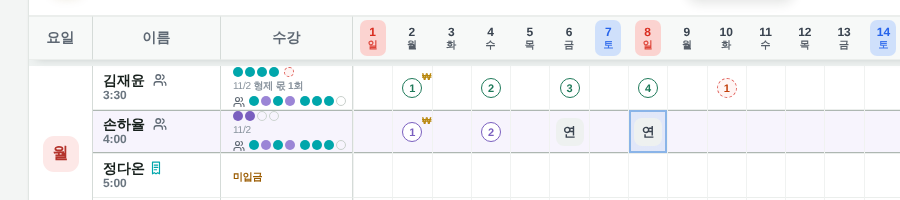
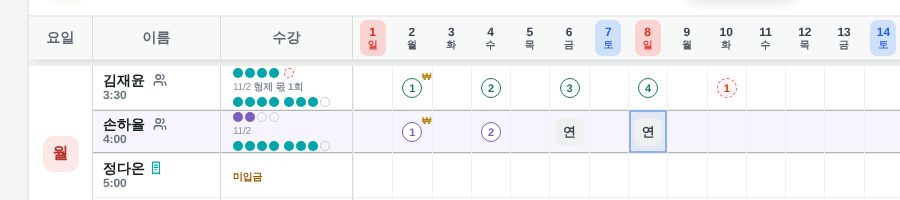
v0.108.2 형제 합계 동그라미: 아이콘 빼고 출석 청록·결석 빨강
Claude-Session: https://claude.ai/code/session_014d9zEvtY8svh7Lt1eQQH6C

Changed region(s): [[0.2489, 0.48, 0.3733, 0.75], [0.2489, 0.33, 0.3422, 0.45]]

diff --git a/design/attendance.html b/design/attendance.html
@@ -95,7 +95,7 @@ html.bwp section[aria-label="출석부"] [style*="dashed"]{border-color:#000!imp
                   <span style="display: flex; flex-direction: column; gap: 3px; align-items: flex-start">
                     <span style="display: flex; align-items: flex-end; gap: 5px"><span style="display: flex; flex-direction: column; gap: 3px"><sc-for list="{{r.dotLines}}" as="dl" hint-placeholder-count="1"><span style="display: flex; align-items: center; gap: 5px"><sc-for list="{{dl.groups}}" as="dg" hint-placeholder-count="2"><span style="display: flex; gap: 2px"><sc-for list="{{dg.dots}}" as="dd" hint-placeholder-count="4"><span data-bw="{{dd.bw}}" style="{{dd.style}}"></span></sc-for></span></sc-for></span></sc-for></span><sc-if value="{{r.queueTxt}}" hint-placeholder-val="{{ false }}"><span style="display: inline-flex; align-items: center; height: 15px; padding: 0 5px; border-radius: 5px; background: #F3E6C4; color: #7A5C12; font-size: 9px; font-weight: 600; white-space: nowrap">{{r.queueTxt}}</span></sc-if></span>
                     <span style="font-size: 10px; letter-spacing: -0.02em; white-space: normal; line-height: 1.25"><sc-for list="{{r.subParts}}" as="sp" hint-placeholder-count="1"><span style="{{sp.style}}">{{sp.t}}</span></sc-for></span><sc-if value="{{r.lateLine}}" hint-placeholder-val="{{ false }}"><span style="font-size: 10px; font-weight: 600; letter-spacing: -0.02em; color: #007E82; white-space: nowrap">{{r.lateLine}}</span></sc-if><sc-if value="{{r.diffLine}}" hint-placeholder-val="{{ false }}"><span style="{{r.diffStyle}}">{{r.diffLine}}</span></sc-if>
-                    <sc-if value="{{r.pool}}" hint-placeholder-val="{{ false }}"><span title="{{r.pool.title}}" aria-label="{{r.pool.title}}" style="display: flex; align-items: flex-start; gap: 4px; margin-top: 1px"><svg width="12" height="12" viewBox="0 0 24 24" fill="none" stroke="#5E6873" stroke-width="2.2" stroke-linecap="round" stroke-linejoin="round" aria-hidden="true" style="flex: none"><path d="M16 21v-2a4 4 0 0 0-4-4H6a4 4 0 0 0-4 4v2M22 21v-2a4 4 0 0 0-3-3.87M16 3.13a4 4 0 0 1 0 7.75M13 7a4 4 0 1 1-8 0a4 4 0 1 1 8 0"></path></svg><span style="display: flex; flex-direction: column; gap: 3px"><sc-for list="{{r.pool.lines}}" as="pl" hint-placeholder-count="1"><span style="display: flex; align-items: center; gap: 5px"><sc-for list="{{pl.groups}}" as="pg" hint-placeholder-count="2"><span style="display: flex; gap: 2px"><sc-for list="{{pg.dots}}" as="pd" hint-placeholder-count="4"><span data-bw="{{pd.bw}}" style="{{pd.style}}"></span></sc-for></span></sc-for></span></sc-for></span></span></sc-if>
+                    <sc-if value="{{r.pool}}" hint-placeholder-val="{{ false }}"><span title="{{r.pool.title}}" aria-label="{{r.pool.title}}" style="display: flex; margin-top: 1px"><span style="display: flex; flex-direction: column; gap: 3px"><sc-for list="{{r.pool.lines}}" as="pl" hint-placeholder-count="1"><span style="display: flex; align-items: center; gap: 5px"><sc-for list="{{pl.groups}}" as="pg" hint-placeholder-count="2"><span style="display: flex; gap: 2px"><sc-for list="{{pg.dots}}" as="pd" hint-placeholder-count="4"><span data-bw="{{pd.bw}}" style="{{pd.style}}"></span></sc-for></span></sc-for></span></sc-for></span></span></sc-if>
                   </span>
                 </span>
                 <sc-for list="{{r.cells}}" as="x" hint-placeholder-count="30">
@@ -246,7 +246,7 @@ html.bwp section[aria-label="출석부"] [style*="dashed"]{border-color:#000!imp
     <sc-for list="{{sheetTabs}}" as="t" hint-placeholder-count="5">
       <button type="button" class="{{t.cls}}" draggable="true" onDragStart="{{t.dragStart}}" onDragOver="{{t.dragOver}}" onDragLeave="{{t.dragLeave}}" onDrop="{{t.drop}}" onDragEnd="{{t.dragEnd}}" onClick="{{t.pick}}" onContextMenu="{{t.ctx}}" aria-pressed="{{t.on}}" style="{{t.style}}"><span style="{{t.dot}}"></span>{{t.name}}</button>
     </sc-for>
-    <span style="margin-left: auto; flex: none; align-self: center; padding: 0 4px 0 16px; font-size: 11px; color: #8A949E; white-space: nowrap">v0.108.1</span>
+    <span style="margin-left: auto; flex: none; align-self: center; padding: 0 4px 0 16px; font-size: 11px; color: #8A949E; white-space: nowrap">v0.108.2</span>
   </nav>
   <sc-if value="{{th.open}}" hint-placeholder-val="{{ false }}">
     <div class="noprint" onMouseDown="{{th.close}}" style="position: fixed; inset: 0; z-index: 70; background: rgba(23, 32, 28, 0.28)"></div>
@@ -2246,7 +2246,6 @@ class Component extends DCLogic {
     // 형제 합계는 '결제일' 기준: 형제가 같이 낸 가장 최근 결제(grp, 없으면 형제 결제가 있는 가장 최근 날짜)의 회차 합 = 동그라미 수,
     // 그 결제일(그날 수업 포함)부터 형제들이 한 출석·결석을 날짜순으로 채움 (아이마다 색)
     const names = this.sibGroups().find(g => g.indexOf(name) >= 0); if (!names || names.length < 2) return null;
-    const COL = ['#00A6AB', '#9B85D6', '#E0A23B', '#5B86C9', '#D9746C'];
     const pays = this.readPays().filter(x => x && names.indexOf(x.name) >= 0 && x.kind !== 'repay' && x.kind !== 'trial' && !x.refund && x.date);
     if (!pays.length) return null;
     const g = pays.filter(x => x.grp).sort((a, b) => a.date < b.date ? 1 : a.date > b.date ? -1 : (b.at || 0) - (a.at || 0))[0];
@@ -2257,11 +2256,11 @@ class Component extends DCLogic {
     const les = [];
     names.forEach((n, i) => {
       const ids = rows.filter(z => String(z.name || '').replace('$', '') === n).map(z => z.id);
-      for (let m = this.kOf(from); m <= maxM; m++) { const ev = this.monthEvents(m) || {}; ids.forEach(id => { const r = ev[id] || {}; for (let d = 1; d <= 31; d++) { const v = r[d]; if (v !== '수' && v !== '결') continue; const ymd = this.ymK(m) + '-' + String(d).padStart(2, '0'); if (ymd >= from) les.push({ ymd: ymd, i: i }); } }); }
+      for (let m = this.kOf(from); m <= maxM; m++) { const ev = this.monthEvents(m) || {}; ids.forEach(id => { const r = ev[id] || {}; for (let d = 1; d <= 31; d++) { const v = r[d]; if (v !== '수' && v !== '결') continue; const ymd = this.ymK(m) + '-' + String(d).padStart(2, '0'); if (ymd >= from) les.push({ ymd: ymd, i: i, abs: v === '결' }); } }); }
     });
     les.sort((a, b) => a.ymd < b.ymd ? -1 : a.ymd > b.ymd ? 1 : a.i - b.i);
     const D = 'display: inline-block; width: 10px; height: 10px; border-radius: 50%; box-sizing: border-box; flex: none; ';
-    const dots = les.map((l, k) => ({ bw: k < cap ? 'd-on' : '', style: D + (k < cap ? 'background: ' + COL[l.i % COL.length] : 'border: 1.5px dashed #D92D20') }));
+    const dots = les.map((l, k) => ({ bw: k < cap ? 'd-on' : '', style: D + (k < cap ? 'background: ' + (l.abs ? '#E5484D' : '#00A6AB') : 'border: 1.5px dashed #D92D20') }));
     while (dots.length < cap) dots.push({ bw: '', style: D + 'border: 1.5px solid #C9D0CC' });
     const groups = []; for (let j = 0; j < dots.length; j += 4) groups.push({ dots: dots.slice(j, j + 4) });
     const lines = []; for (let j = 0; j < groups.length; j += 2) lines.push({ groups: groups.slice(j, j + 2) });

diff --git a/design/src/attendance.dc.html b/design/src/attendance.dc.html
@@ -89,7 +89,7 @@ html.bwp section[aria-label="출석부"] [style*="dashed"]{border-color:#000!imp
                   <span style="display: flex; flex-direction: column; gap: 3px; align-items: flex-start">
                     <span style="display: flex; align-items: flex-end; gap: 5px"><span style="display: flex; flex-direction: column; gap: 3px"><sc-for list="{{r.dotLines}}" as="dl" hint-placeholder-count="1"><span style="display: flex; align-items: center; gap: 5px"><sc-for list="{{dl.groups}}" as="dg" hint-placeholder-count="2"><span style="display: flex; gap: 2px"><sc-for list="{{dg.dots}}" as="dd" hint-placeholder-count="4"><span data-bw="{{dd.bw}}" style="{{dd.style}}"></span></sc-for></span></sc-for></span></sc-for></span><sc-if value="{{r.queueTxt}}" hint-placeholder-val="{{ false }}"><span style="display: inline-flex; align-items: center; height: 15px; padding: 0 5px; border-radius: 5px; background: #F3E6C4; color: #7A5C12; font-size: 9px; font-weight: 600; white-space: nowrap">{{r.queueTxt}}</span></sc-if></span>
                     <span style="font-size: 10px; letter-spacing: -0.02em; white-space: normal; line-height: 1.25"><sc-for list="{{r.subParts}}" as="sp" hint-placeholder-count="1"><span style="{{sp.style}}">{{sp.t}}</span></sc-for></span><sc-if value="{{r.lateLine}}" hint-placeholder-val="{{ false }}"><span style="font-size: 10px; font-weight: 600; letter-spacing: -0.02em; color: #007E82; white-space: nowrap">{{r.lateLine}}</span></sc-if><sc-if value="{{r.diffLine}}" hint-placeholder-val="{{ false }}"><span style="{{r.diffStyle}}">{{r.diffLine}}</span></sc-if>
-                    <sc-if value="{{r.pool}}" hint-placeholder-val="{{ false }}"><span title="{{r.pool.title}}" aria-label="{{r.pool.title}}" style="display: flex; align-items: flex-start; gap: 4px; margin-top: 1px"><svg width="12" height="12" viewBox="0 0 24 24" fill="none" stroke="#5E6873" stroke-width="2.2" stroke-linecap="round" stroke-linejoin="round" aria-hidden="true" style="flex: none"><path d="M16 21v-2a4 4 0 0 0-4-4H6a4 4 0 0 0-4 4v2M22 21v-2a4 4 0 0 0-3-3.87M16 3.13a4 4 0 0 1 0 7.75M13 7a4 4 0 1 1-8 0a4 4 0 1 1 8 0"></path></svg><span style="display: flex; flex-direction: column; gap: 3px"><sc-for list="{{r.pool.lines}}" as="pl" hint-placeholder-count="1"><span style="display: flex; align-items: center; gap: 5px"><sc-for list="{{pl.groups}}" as="pg" hint-placeholder-count="2"><span style="display: flex; gap: 2px"><sc-for list="{{pg.dots}}" as="pd" hint-placeholder-count="4"><span data-bw="{{pd.bw}}" style="{{pd.style}}"></span></sc-for></span></sc-for></span></sc-for></span></span></sc-if>
+                    <sc-if value="{{r.pool}}" hint-placeholder-val="{{ false }}"><span title="{{r.pool.title}}" aria-label="{{r.pool.title}}" style="display: flex; margin-top: 1px"><span style="display: flex; flex-direction: column; gap: 3px"><sc-for list="{{r.pool.lines}}" as="pl" hint-placeholder-count="1"><span style="display: flex; align-items: center; gap: 5px"><sc-for list="{{pl.groups}}" as="pg" hint-placeholder-count="2"><span style="display: flex; gap: 2px"><sc-for list="{{pg.dots}}" as="pd" hint-placeholder-count="4"><span data-bw="{{pd.bw}}" style="{{pd.style}}"></span></sc-for></span></sc-for></span></sc-for></span></span></sc-if>
                   </span>
                 </span>
                 <sc-for list="{{r.cells}}" as="x" hint-placeholder-count="30">
@@ -240,7 +240,7 @@ html.bwp section[aria-label="출석부"] [style*="dashed"]{border-color:#000!imp
     <sc-for list="{{sheetTabs}}" as="t" hint-placeholder-count="5">
       <button type="button" class="{{t.cls}}" draggable="true" onDragStart="{{t.dragStart}}" onDragOver="{{t.dragOver}}" onDragLeave="{{t.dragLeave}}" onDrop="{{t.drop}}" onDragEnd="{{t.dragEnd}}" onClick="{{t.pick}}" onContextMenu="{{t.ctx}}" aria-pressed="{{t.on}}" style="{{t.style}}"><span style="{{t.dot}}"></span>{{t.name}}</button>
     </sc-for>
-    <span style="margin-left: auto; flex: none; align-self: center; padding: 0 4px 0 16px; font-size: 11px; color: #8A949E; white-space: nowrap">v0.108.1</span>
+    <span style="margin-left: auto; flex: none; align-self: center; padding: 0 4px 0 16px; font-size: 11px; color: #8A949E; white-space: nowrap">v0.108.2</span>
   </nav>
   <sc-if value="{{th.open}}" hint-placeholder-val="{{ false }}">
     <div class="noprint" onMouseDown="{{th.close}}" style="position: fixed; inset: 0; z-index: 70; background: rgba(23, 32, 28, 0.28)"></div>
@@ -2238,7 +2238,6 @@ class Component extends DCLogic {
     // 형제 합계는 '결제일' 기준: 형제가 같이 낸 가장 최근 결제(grp, 없으면 형제 결제가 있는 가장 최근 날짜)의 회차 합 = 동그라미 수,
     // 그 결제일(그날 수업 포함)부터 형제들이 한 출석·결석을 날짜순으로 채움 (아이마다 색)
     const names = this.sibGroups().find(g => g.indexOf(name) >= 0); if (!names || names.length < 2) return null;
-    const COL = ['#00A6AB', '#9B85D6', '#E0A23B', '#5B86C9', '#D9746C'];
     const pays = this.readPays().filter(x => x && names.indexOf(x.name) >= 0 && x.kind !== 'repay' && x.kind !== 'trial' && !x.refund && x.date);
     if (!pays.length) return null;
     const g = pays.filter(x => x.grp).sort((a, b) => a.date < b.date ? 1 : a.date > b.date ? -1 : (b.at || 0) - (a.at || 0))[0];
@@ -2249,11 +2248,11 @@ class Component extends DCLogic {
     const les = [];
     names.forEach((n, i) => {
       const ids = rows.filter(z => String(z.name || '').replace('$', '') === n).map(z => z.id);
-      for (let m = this.kOf(from); m <= maxM; m++) { const ev = this.monthEvents(m) || {}; ids.forEach(id => { const r = ev[id] || {}; for (let d = 1; d <= 31; d++) { const v = r[d]; if (v !== '수' && v !== '결') continue; const ymd = this.ymK(m) + '-' + String(d).padStart(2, '0'); if (ymd >= from) les.push({ ymd: ymd, i: i }); } }); }
+      for (let m = this.kOf(from); m <= maxM; m++) { const ev = this.monthEvents(m) || {}; ids.forEach(id => { const r = ev[id] || {}; for (let d = 1; d <= 31; d++) { const v = r[d]; if (v !== '수' && v !== '결') continue; const ymd = this.ymK(m) + '-' + String(d).padStart(2, '0'); if (ymd >= from) les.push({ ymd: ymd, i: i, abs: v === '결' }); } }); }
     });
     les.sort((a, b) => a.ymd < b.ymd ? -1 : a.ymd > b.ymd ? 1 : a.i - b.i);
     const D = 'display: inline-block; width: 10px; height: 10px; border-radius: 50%; box-sizing: border-box; flex: none; ';
-    const dots = les.map((l, k) => ({ bw: k < cap ? 'd-on' : '', style: D + (k < cap ? 'background: ' + COL[l.i % COL.length] : 'border: 1.5px dashed #D92D20') }));
+    const dots = les.map((l, k) => ({ bw: k < cap ? 'd-on' : '', style: D + (k < cap ? 'background: ' + (l.abs ? '#E5484D' : '#00A6AB') : 'border: 1.5px dashed #D92D20') }));
     while (dots.length < cap) dots.push({ bw: '', style: D + 'border: 1.5px solid #C9D0CC' });
     const groups = []; for (let j = 0; j < dots.length; j += 4) groups.push({ dots: dots.slice(j, j + 4) });
     const lines = []; for (let j = 0; j < groups.length; j += 2) lines.push({ groups: groups.slice(j, j + 2) });

diff --git a/design/src/students.dc.html b/design/src/students.dc.html
@@ -169,7 +169,7 @@ html.bwp .printonly .pcell,html.bwp .printonly .phead{border-color:#000!importan
     </div>
   </main>
 
-  <div style="display: flex; justify-content: flex-end; padding: 8px 16px; border-top: 1px solid #DDE2DF; background: #FFFFFF; font-size: 11px; color: #8A949E">v0.108.1</div>
+  <div style="display: flex; justify-content: flex-end; padding: 8px 16px; border-top: 1px solid #DDE2DF; background: #FFFFFF; font-size: 11px; color: #8A949E">v0.108.2</div>
   <sc-if value="{{colsCfg.isOpen}}" hint-placeholder-val="{{ false }}">
     <div onMouseDown="{{colsCfg.close}}" style="position: fixed; inset: 0; z-index: 40; background: rgba(23, 32, 28, 0.32)"></div>
     <div role="dialog" aria-label="설정" onKeyDown="{{colsCfg.key}}" tabIndex="-1" id="cfgDlg" style="outline: none; position: fixed; left: 50%; top: 50%; transform: translate(-50%, -50%); z-index: 41; width: 940px; max-width: calc(100vw - 48px); max-height: calc(100vh - 48px); box-sizing: border-box; display: flex; flex-direction: column; background: #F6F8F7; border: 1px solid #DDE2DF; border-radius: 26px; box-shadow: 0 30px 80px rgba(23, 32, 28, 0.28); overflow: hidden">

diff --git a/design/students.html b/design/students.html
@@ -172,7 +172,7 @@ html.bwp .printonly .pcell,html.bwp .printonly .phead{border-color:#000!importan
     </div>
   </main>
 
-  <div style="display: flex; justify-content: flex-end; padding: 8px 16px; border-top: 1px solid #DDE2DF; background: #FFFFFF; font-size: 11px; color: #8A949E">v0.108.1</div>
+  <div style="display: flex; justify-content: flex-end; padding: 8px 16px; border-top: 1px solid #DDE2DF; background: #FFFFFF; font-size: 11px; color: #8A949E">v0.108.2</div>
   <sc-if value="{{colsCfg.isOpen}}" hint-placeholder-val="{{ false }}">
     <div onMouseDown="{{colsCfg.close}}" style="position: fixed; inset: 0; z-index: 40; background: rgba(23, 32, 28, 0.32)"></div>
     <div role="dialog" aria-label="설정" onKeyDown="{{colsCfg.key}}" tabIndex="-1" id="cfgDlg" style="outline: none; position: fixed; left: 50%; top: 50%; transform: translate(-50%, -50%); z-index: 41; width: 940px; max-width: calc(100vw - 48px); max-height: calc(100vh - 48px); box-sizing: border-box; display: flex; flex-direction: column; background: #F6F8F7; border: 1px solid #DDE2DF; border-radius: 26px; box-shadow: 0 30px 80px rgba(23, 32, 28, 0.28); overflow: hidden">

diff --git a/design/settings.html b/design/settings.html
@@ -304,7 +304,7 @@ html.bwp .printonly .pcell{border-color:#000!important}
     </div>
   </main>
 
-  <div style="display: flex; justify-content: flex-end; padding: 8px 16px; border-top: 1px solid #DDE2DF; background: #FFFFFF; font-size: 11px; color: #8A949E">v0.108.1</div>
+  <div style="display: flex; justify-content: flex-end; padding: 8px 16px; border-top: 1px solid #DDE2DF; background: #FFFFFF; font-size: 11px; color: #8A949E">v0.108.2</div>
 
   <sc-if value="{{ed.open}}" hint-placeholder-val="{{ false }}">
     <div class="noprint" onMouseDown="{{ed.close}}" style="position: fixed; inset: 0; z-index: 44; background: rgba(23, 32, 28, 0.32)"></div>

diff --git a/design/src/settings.dc.html b/design/src/settings.dc.html
@@ -301,7 +301,7 @@ html.bwp .printonly .pcell{border-color:#000!important}
     </div>
   </main>
 
-  <div style="display: flex; justify-content: flex-end; padding: 8px 16px; border-top: 1px solid #DDE2DF; background: #FFFFFF; font-size: 11px; color: #8A949E">v0.108.1</div>
+  <div style="display: flex; justify-content: flex-end; padding: 8px 16px; border-top: 1px solid #DDE2DF; background: #FFFFFF; font-size: 11px; color: #8A949E">v0.108.2</div>
 
   <sc-if value="{{ed.open}}" hint-placeholder-val="{{ false }}">
     <div class="noprint" onMouseDown="{{ed.close}}" style="position: fixed; inset: 0; z-index: 44; background: rgba(23, 32, 28, 0.32)"></div>

diff --git a/design/money.html b/design/money.html
@@ -131,7 +131,7 @@ html.bwp .printonly .pcell{border-color:#000!important}
         </div>
       </sc-if>
       </span>
-      <span style="font-size: 11px; color: #8A949E; padding-left: 6px">v0.108.1</span>
+      <span style="font-size: 11px; color: #8A949E; padding-left: 6px">v0.108.2</span>
     </div>
   </main>
 

diff --git a/design/notice.html b/design/notice.html
@@ -111,7 +111,7 @@ html.bwp .printonly .pcell{border-color:#000!important}
         </div>
       </sc-if>
       </span>
-      <span style="font-size: 11px; color: #8A949E; padding-left: 6px">v0.108.1</span>
+      <span style="font-size: 11px; color: #8A949E; padding-left: 6px">v0.108.2</span>
     </div>
   </main>
 

diff --git a/design/src/money.dc.html b/design/src/money.dc.html
@@ -127,7 +127,7 @@ html.bwp .printonly .pcell{border-color:#000!important}
         </div>
       </sc-if>
       </span>
-      <span style="font-size: 11px; color: #8A949E; padding-left: 6px">v0.108.1</span>
+      <span style="font-size: 11px; color: #8A949E; padding-left: 6px">v0.108.2</span>
     </div>
   </main>
 

diff --git a/design/src/notice.dc.html b/design/src/notice.dc.html
@@ -108,7 +108,7 @@ html.bwp .printonly .pcell{border-color:#000!important}
         </div>
       </sc-if>
       </span>
-      <span style="font-size: 11px; color: #8A949E; padding-left: 6px">v0.108.1</span>
+      <span style="font-size: 11px; color: #8A949E; padding-left: 6px">v0.108.2</span>
     </div>
   </main>
 

diff --git a/CLAUDE.md b/CLAUDE.md
@@ -8,7 +8,7 @@
 - **시험**: 글자·색·간격 같은 작은 수정은 시험 없이 바로 올린다. 계산·저장·입력 동작이 바뀌는 수정만 Playwright로 바꾼 부분을 짧게 시험(오프라인: db.js·supabase-js·xlsx 등은 빈 파일로 막고 file:// 로 열기).
 - **토큰 아끼기**: 답은 짧게(바뀐 버전 + 바뀐 내용 몇 줄). 파일은 통째로 읽지 말고 grep으로 필요한 줄만. 원인 찾기가 길어지면 원장님께 먼저 상황을 묻는다.
 - 원장님이 요청을 여러 개 모아 주시면 한 번에 고치고 한 번만 올린다.
-- 버전: 프로그램 전체 하나, 모든 페이지에 표시. 작은 수정은 끝자리, 기능 추가는 가운데 자리. **현재 `v0.108.1`**. db.js를 고치면 네 페이지 head의 `db.js?v=` 숫자도 올린다(GitHub 페이지 캐시 때문).
+- 버전: 프로그램 전체 하나, 모든 페이지에 표시. 작은 수정은 끝자리, 기능 추가는 가운데 자리. **현재 `v0.108.2`**. db.js를 고치면 네 페이지 head의 `db.js?v=` 숫자도 올린다(GitHub 페이지 캐시 때문).
 - 템플릿 `sc-for`는 글자·숫자 목록을 못 그림(undefined) → 항목을 {t} 객체로 감싼다. `<table>` 안에 sc-for를 넣으면 브라우저가 밖으로 빼 버리므로 표는 div(display: table/table-row/table-cell)로 만든다.
 - 페이지 runtime의 `setState(p)`는 바로 다시 그리고 **두 번째 인자(콜백)를 부르지 않는다** → 뒤에 할 일은 setState 다음 줄에 쓴다.
 - 커밋 메시지 끝에 정해진 Co-Authored-By/Claude-Session 줄을 붙인다(시스템 안내대로).
@@ -35,7 +35,7 @@
 - 시간은 12시간 표기, 오전·오후 글자 없음. 학원은 오후 1시~밤 10시 → **1~11시는 오후, 12시는 낮 12시**.
 - '적용 날짜'는 기본값 오늘.
 - 용어: 휴원에서 돌아오면 **복귀**, 퇴원에서 돌아오면 **재등록**(데이터 kind는 둘 다 'back'). 재등록: 미납·남은 수업이 없으면(수업완료) 고르기 없이 바로 '새로 시작'(재등록 날짜부터 신규처럼 수강권 처음부터, 상태 기록 ticket='NEW', 계산 `FRESH`, 지난 출석부 기록은 그대로). 미납이나 남은 수업이 있으면 창에서 '지난 수강 이어서'(기본, '이어서 계산: 미납 N회 · 남은 수업 N회' 표시) / '새로 시작'(남은 미납 있으면 빨간 안내) 고름 — 연락 끊겨 퇴원 처리했다가 곧 돌아온 원생용. 남은 수업 = `_remain`(출석부) / tickets.left(수강생대장). 수강생대장: '이어서'는 퇴원 탭 → 재원 탭으로 옮겨감, '새로 시작'은 재원 탭에 새 줄 + 퇴원 탭에 그 전 퇴원 기간 줄이 그대로 남음(DB 원생은 하나, 화면에만 `ghost` 줄 — 퇴원 날짜·사유·그때 수강, 관리는 '기록'만). 기록에 '새로 시작'/'지난 수강 이어서' 남음. 버튼·창·기록·알림 모두 이 말로. 출석부는 복귀·재등록한 달 동안 이름 옆 청록 배지.
-- **형제**: 'academy.siblings' [[이름,…]] / app_settings 'siblings'(원장님만). 수강생대장 수정 창 맨 아래 '형제' 카드(칩 ×·'+ 형제 추가' 고르기, 바로 저장). 출석부·수강생대장 이름 옆 사람 둘 아이콘(Lucide users, 마우스 '형제: 이름'). 출석부 새 수납 창에 '형제도 같이 수납'(체크+금액, 기본 = 그 형제 수강료 합계) → 같은 날짜로 형제 수납 기록 + 형제 줄 그날 칸 ₩, 기록끼리 grp 같음 → 수입·지출 비고 '형제 합계 N (이름 · 이름)'(`grpTxt`). **형제 합계 수강**(`sibPool`): 형제 묶음 원생은 수강 칸 아래에 사람 둘 아이콘 + 형제 합계 동그라미 줄 — **결제일 기준**: 형제가 같이 낸 가장 최근 결제(grp, 없으면 형제 결제가 있는 가장 최근 날짜)의 회차 합 = 동그라미 수, 그 결제일(그날 수업 포함)부터 형제들의 출석·결석을 날짜순으로 채움, 아이마다 다른 색 #00A6AB·#9B85D6·#E0A23B…, 마우스 '형제 합계 F/C회 · M/D 결제부터 (이름 N · 이름 N)'. 합계가 남아 있으면 자기 몫을 넘긴 아이도 미납 아님(글 '형제 몫 N회' 회색, 붉은 바탕 없음). 수납 안내는 합계 동그라미가 다 찼을 때 형제 모두 due.
+- **형제**: 'academy.siblings' [[이름,…]] / app_settings 'siblings'(원장님만). 수강생대장 수정 창 맨 아래 '형제' 카드(칩 ×·'+ 형제 추가' 고르기, 바로 저장). 출석부·수강생대장 이름 옆 사람 둘 아이콘(Lucide users, 마우스 '형제: 이름'). 출석부 새 수납 창에 '형제도 같이 수납'(체크+금액, 기본 = 그 형제 수강료 합계) → 같은 날짜로 형제 수납 기록 + 형제 줄 그날 칸 ₩, 기록끼리 grp 같음 → 수입·지출 비고 '형제 합계 N (이름 · 이름)'(`grpTxt`). **형제 합계 수강**(`sibPool`): 형제 묶음 원생은 수강 칸 아래에 형제 합계 동그라미 줄(아이콘 없음) — **결제일 기준**: 형제가 같이 낸 가장 최근 결제(grp, 없으면 형제 결제가 있는 가장 최근 날짜)의 회차 합 = 동그라미 수, 그 결제일(그날 수업 포함)부터 형제들의 출석·결석을 날짜순으로 채움, 색은 출석 청록·결석 빨강(아이 구분 없음), 마우스 '형제 합계 F/C회 · M/D 결제부터 (이름 N · 이름 N)'. 합계가 남아 있으면 자기 몫을 넘긴 아이도 미납 아님(글 '형제 몫 N회' 회색, 붉은 바탕 없음). 수납 안내는 합계 동그라미가 다 찼을 때 형제 모두 due.
 - 용어: 원생이 배우는 과목 = 수강과목, 강사가 가르치는 과목 = 교습과목. 화면에 '파트'라는 말은 쓰지 않는다(수강생대장 칸 이름도 '교습과목').
 
 ## 페이지 구성
